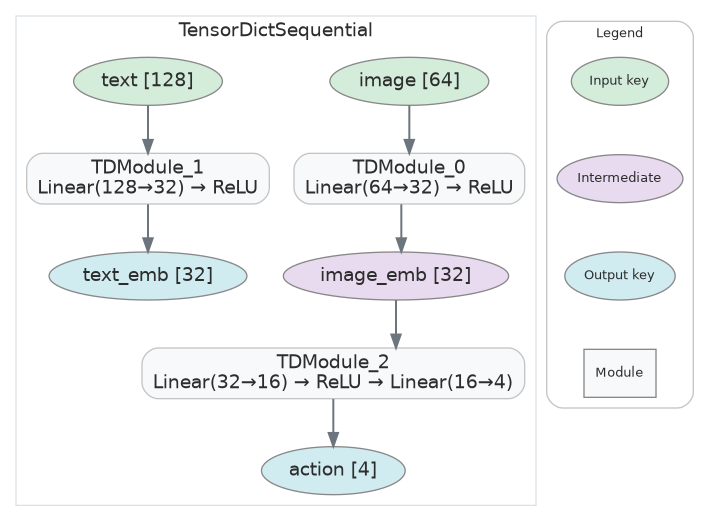
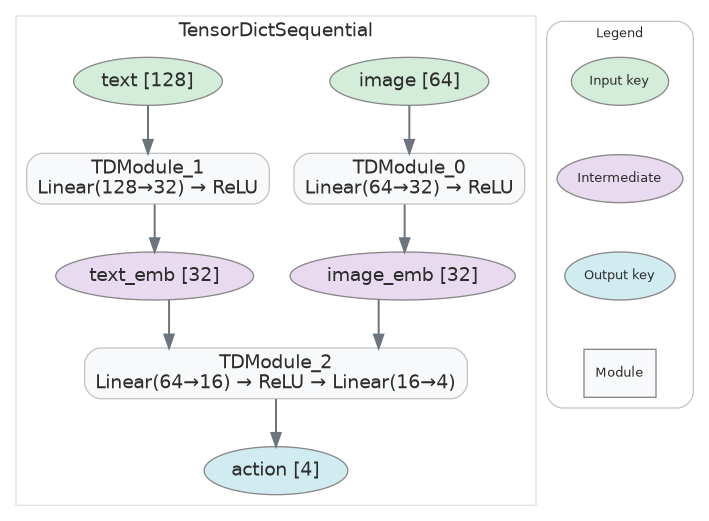
Extend shape inference to plain models; fix fan-in example; bump to 0.2.0
- ShapeInferer now handles nn.Sequential (per-layer running shape) and
  generic nn.Module (input/output shape). Sequential exploits the
  guaranteed layer ordering to capture exact intermediate shapes;
  generic modules only get input/output since forward order is unknown.
- nn.Sequential edges are now labelled with the tensor shape flowing
  through them; generic-module Input/Output ellipses show their shapes.
- Gallery fan-in example now genuinely fans in: a Fuse module consumes
  both image_emb and text_emb (was silently dropping text_emb).
- Bump version 0.1.0 -> 0.2.0.

Tests: 97/97 green (3 new for plain-model shape inference).

diff --git a/tensordictviz/shape_inference.py b/tensordictviz/shape_inference.py
@@ -50,9 +50,17 @@ class ShapeInferer:
     # -- public ------------------------------------------------------------
 
     def infer(self) -> Dict[str, Any]:
-        """Return ``{formatted_key: shape_tuple}`` for every key we could capture."""
+        """Return ``{node_id: shape_tuple}`` for every node we could capture.
+
+        - TensorDict models: keys are formatted TensorDict key names.
+        - ``nn.Sequential``: keys are ``"input"`` and ``"layer_{i}"`` — the
+          shape of the tensor *leaving* that node.
+        - Generic ``nn.Module``: keys are ``"input"`` and ``"output"`` only
+          (per-layer order is not knowable for an arbitrary ``forward``).
+        """
         try:
             import torch
+            import torch.nn as nn
         except ImportError:
             return {}
 
@@ -65,7 +73,71 @@ class ShapeInferer:
             self.model, (TensorDictModule, TensorDictSequential)
         ):
             return self._infer_td(torch)
+        if isinstance(self.model, nn.Sequential):
+            return self._infer_sequential(torch)
+        if isinstance(self.model, nn.Module):
+            return self._infer_generic(torch)
         return {}
+
+    # -- plain nn.Module paths ---------------------------------------------
+
+    def _resolve_plain_input(self, torch):
+        """A fake (or user-provided) input tensor for a non-TensorDict model."""
+        if self.sample_input is not None:
+            if hasattr(self.sample_input, "shape"):  # a tensor
+                return self.sample_input
+            raise TypeError(
+                "sample_input for nn.Sequential / nn.Module must be a tensor"
+            )
+        return self._fake_tensor_for_module(torch, self.model)
+
+    def _infer_sequential(self, torch) -> Dict[str, Any]:
+        try:
+            x = self._resolve_plain_input(torch)
+            if x is None:
+                return {}
+            was_training = self.model.training
+            self.model.eval()
+            shapes: Dict[str, Any] = {"input": tuple(x.shape)}
+            try:
+                with torch.no_grad():
+                    for i, layer in enumerate(self.model):
+                        x = layer(x)
+                        shapes[f"layer_{i}"] = tuple(x.shape)
+            finally:
+                if was_training:
+                    self.model.train()
+            return shapes
+        except Exception as e:  # noqa: BLE001
+            warnings.warn(
+                f"tensordictviz: shape inference failed ({type(e).__name__}: {e}).",
+                stacklevel=2,
+            )
+            return {}
+
+    def _infer_generic(self, torch) -> Dict[str, Any]:
+        try:
+            x = self._resolve_plain_input(torch)
+            if x is None:
+                return {}
+            was_training = self.model.training
+            self.model.eval()
+            try:
+                with torch.no_grad():
+                    out = self.model(x)
+            finally:
+                if was_training:
+                    self.model.train()
+            shapes: Dict[str, Any] = {"input": tuple(x.shape)}
+            if hasattr(out, "shape"):
+                shapes["output"] = tuple(out.shape)
+            return shapes
+        except Exception as e:  # noqa: BLE001
+            warnings.warn(
+                f"tensordictviz: shape inference failed ({type(e).__name__}: {e}).",
+                stacklevel=2,
+            )
+            return {}
 
     # -- TensorDict path ---------------------------------------------------
 

diff --git a/tests/test_phase_a.py b/tests/test_phase_a.py
@@ -213,10 +213,41 @@ class TestShapeInference:
             shapes = ShapeInferer(model).infer()
         assert shapes == {}
 
-    def test_non_td_model_returns_empty(self):
-        # ShapeInferer only handles TensorDictModule paths for now.
-        model = nn.Sequential(nn.Linear(4, 2))
-        assert ShapeInferer(model).infer() == {}
+    def test_sequential_per_layer_shapes(self):
+        model = nn.Sequential(nn.Linear(4, 8), nn.ReLU(), nn.Linear(8, 2))
+        shapes = ShapeInferer(model).infer()
+        assert shapes["input"] == (2, 4)
+        assert shapes["layer_0"] == (2, 8)  # after Linear(4, 8)
+        assert shapes["layer_1"] == (2, 8)  # after ReLU
+        assert shapes["layer_2"] == (2, 2)  # after Linear(8, 2)
+
+    def test_generic_module_input_output_shapes(self):
+        class M(nn.Module):
+            def __init__(self):
+                super().__init__()
+                self.fc = nn.Linear(6, 3)
+
+            def forward(self, x):
+                return self.fc(x)
+
+        shapes = ShapeInferer(M()).infer()
+        assert shapes["input"] == (2, 6)
+        assert shapes["output"] == (2, 3)
+
+    def test_sequential_tensor_sample_input(self):
+        model = nn.Sequential(nn.Linear(7, 3))
+        shapes = ShapeInferer(model, sample_input=torch.randn(5, 7)).infer()
+        assert shapes["input"] == (5, 7)
+        assert shapes["layer_0"] == (5, 3)
+
+    def test_sequential_edge_labels_in_source(self):
+        model = nn.Sequential(nn.Linear(4, 8), nn.ReLU(), nn.Linear(8, 2))
+        viz = visualize(model)
+        src = _source(viz)
+        # Running shape flows onto each edge as a label (batch dim dropped).
+        assert 'label="[4]"' in src  # input -> layer_0
+        assert 'label="[8]"' in src  # layer_0 -> layer_1
+        assert 'label="[2]"' in src  # layer_2 -> output
 
 
 # ---------------------------------------------------------------------------

diff --git a/tensordictviz/model_visualizer.py b/tensordictviz/model_visualizer.py
@@ -273,7 +273,10 @@ class ModelVisualizer:
                 fontname=T["font"],
             )
             self.backend.create_edge(
-                prev_node, layer_name, color=T["edge_internal"]
+                prev_node,
+                layer_name,
+                color=T["edge_internal"],
+                **self._edge_shape_attrs(prev_node),
             )
             prev_node = layer_name
 
@@ -287,7 +290,12 @@ class ModelVisualizer:
             fontcolor=T["key_text"],
             fontname=T["font"],
         )
-        self.backend.create_edge(prev_node, "output", color=T["edge_internal"])
+        self.backend.create_edge(
+            prev_node,
+            "output",
+            color=T["edge_internal"],
+            **self._edge_shape_attrs(prev_node),
+        )
 
     # -- Path 2: TensorDictModule / TensorDictSequential --------------------
 
@@ -620,9 +628,11 @@ class ModelVisualizer:
                     )
                     first_internal_node = last_internal_node = dummy
 
+            in_shape = _shape_label(self.key_shapes.get("input"))
+            out_shape = _shape_label(self.key_shapes.get("output"))
             self.backend.create_node(
                 "input",
-                "Input",
+                f"Input {in_shape}".rstrip() if in_shape else "Input",
                 shape="ellipse",
                 style="filled",
                 fillcolor=T["key_input"],
@@ -632,7 +642,7 @@ class ModelVisualizer:
             )
             self.backend.create_node(
                 "output",
-                "Output",
+                f"Output {out_shape}".rstrip() if out_shape else "Output",
                 shape="ellipse",
                 style="filled",
                 fillcolor=T["key_output"],
@@ -695,6 +705,18 @@ class ModelVisualizer:
                 self.backend.create_edge(a[0], b[0], style="invis")
 
     # -- Helpers -----------------------------------------------------------
+
+    def _edge_shape_attrs(self, source_node: str) -> Dict[str, str]:
+        """Edge attrs labelling an edge with the shape of the tensor leaving
+        ``source_node``. Empty dict when no shape was captured."""
+        label = _shape_label(self.key_shapes.get(source_node))
+        if not label:
+            return {}
+        return {
+            "label": label,
+            "fontsize": "9",
+            "fontcolor": self.theme["module_text"],
+        }
 
     def _unwrap_torchrl_inner(self, td_module):
         """Some torchrl modules expose their core nn.Module under a different attr."""

diff --git a/examples/gallery.py b/examples/gallery.py
@@ -8,6 +8,7 @@ coverage, themes, and TorchRL-aware rendering.
 import os
 import sys
 
+import torch
 from tensordict.nn import (
     ProbabilisticTensorDictModule,
     TensorDictModule,
@@ -47,12 +48,26 @@ fan_out = TensorDictSequential(
 # --- 2. Fan-in: 2 inputs → 1 output -----------------------------------------
 embed_img = nn.Sequential(nn.Linear(64, 32), nn.ReLU())
 embed_text = nn.Sequential(nn.Linear(128, 32), nn.ReLU())
-fuse = nn.Sequential(nn.Linear(32, 16), nn.ReLU(), nn.Linear(16, 4))
+
+
+class Fuse(nn.Module):
+    """Concatenate the image and text embeddings, then project to an action."""
+
+    def __init__(self):
+        super().__init__()
+        self.proj = nn.Linear(64, 16)
+        self.act = nn.ReLU()
+        self.head = nn.Linear(16, 4)
+
+    def forward(self, image_emb, text_emb):
+        x = torch.cat([image_emb, text_emb], dim=-1)
+        return self.head(self.act(self.proj(x)))
+
 
 fan_in = TensorDictSequential(
     TensorDictModule(embed_img, in_keys=["image"], out_keys=["image_emb"]),
     TensorDictModule(embed_text, in_keys=["text"], out_keys=["text_emb"]),
-    TensorDictModule(fuse, in_keys=["image_emb"], out_keys=["action"]),
+    TensorDictModule(Fuse(), in_keys=["image_emb", "text_emb"], out_keys=["action"]),
 )
 
 # --- 3. CNN-based feature extractor + MLP head ------------------------------

diff --git a/README.md b/README.md
@@ -40,7 +40,7 @@ In a Jupyter notebook, just `visualize(model)` auto-renders inline thanks to `_r
 
 ## What you get
 
-- **Real tensor shapes** at every key, captured by running a fake forward pass through the model.
+- **Real tensor shapes** captured by a fake forward pass — on every key for TensorDict models, and on every edge (the running shape) for plain `nn.Sequential`.
 - **Color-coded key nodes** (green = input, lavender = intermediate, blue = output, yellow-dashed = recurrent state).
 - **Layer-chain summaries** for each module: `Linear(4→5) → ReLU → Linear(5→3)`.
 - **TorchRL-aware rendering** for `ProbabilisticTensorDictModule`, recurrent modules, and any `TensorDictSequential` subclass.